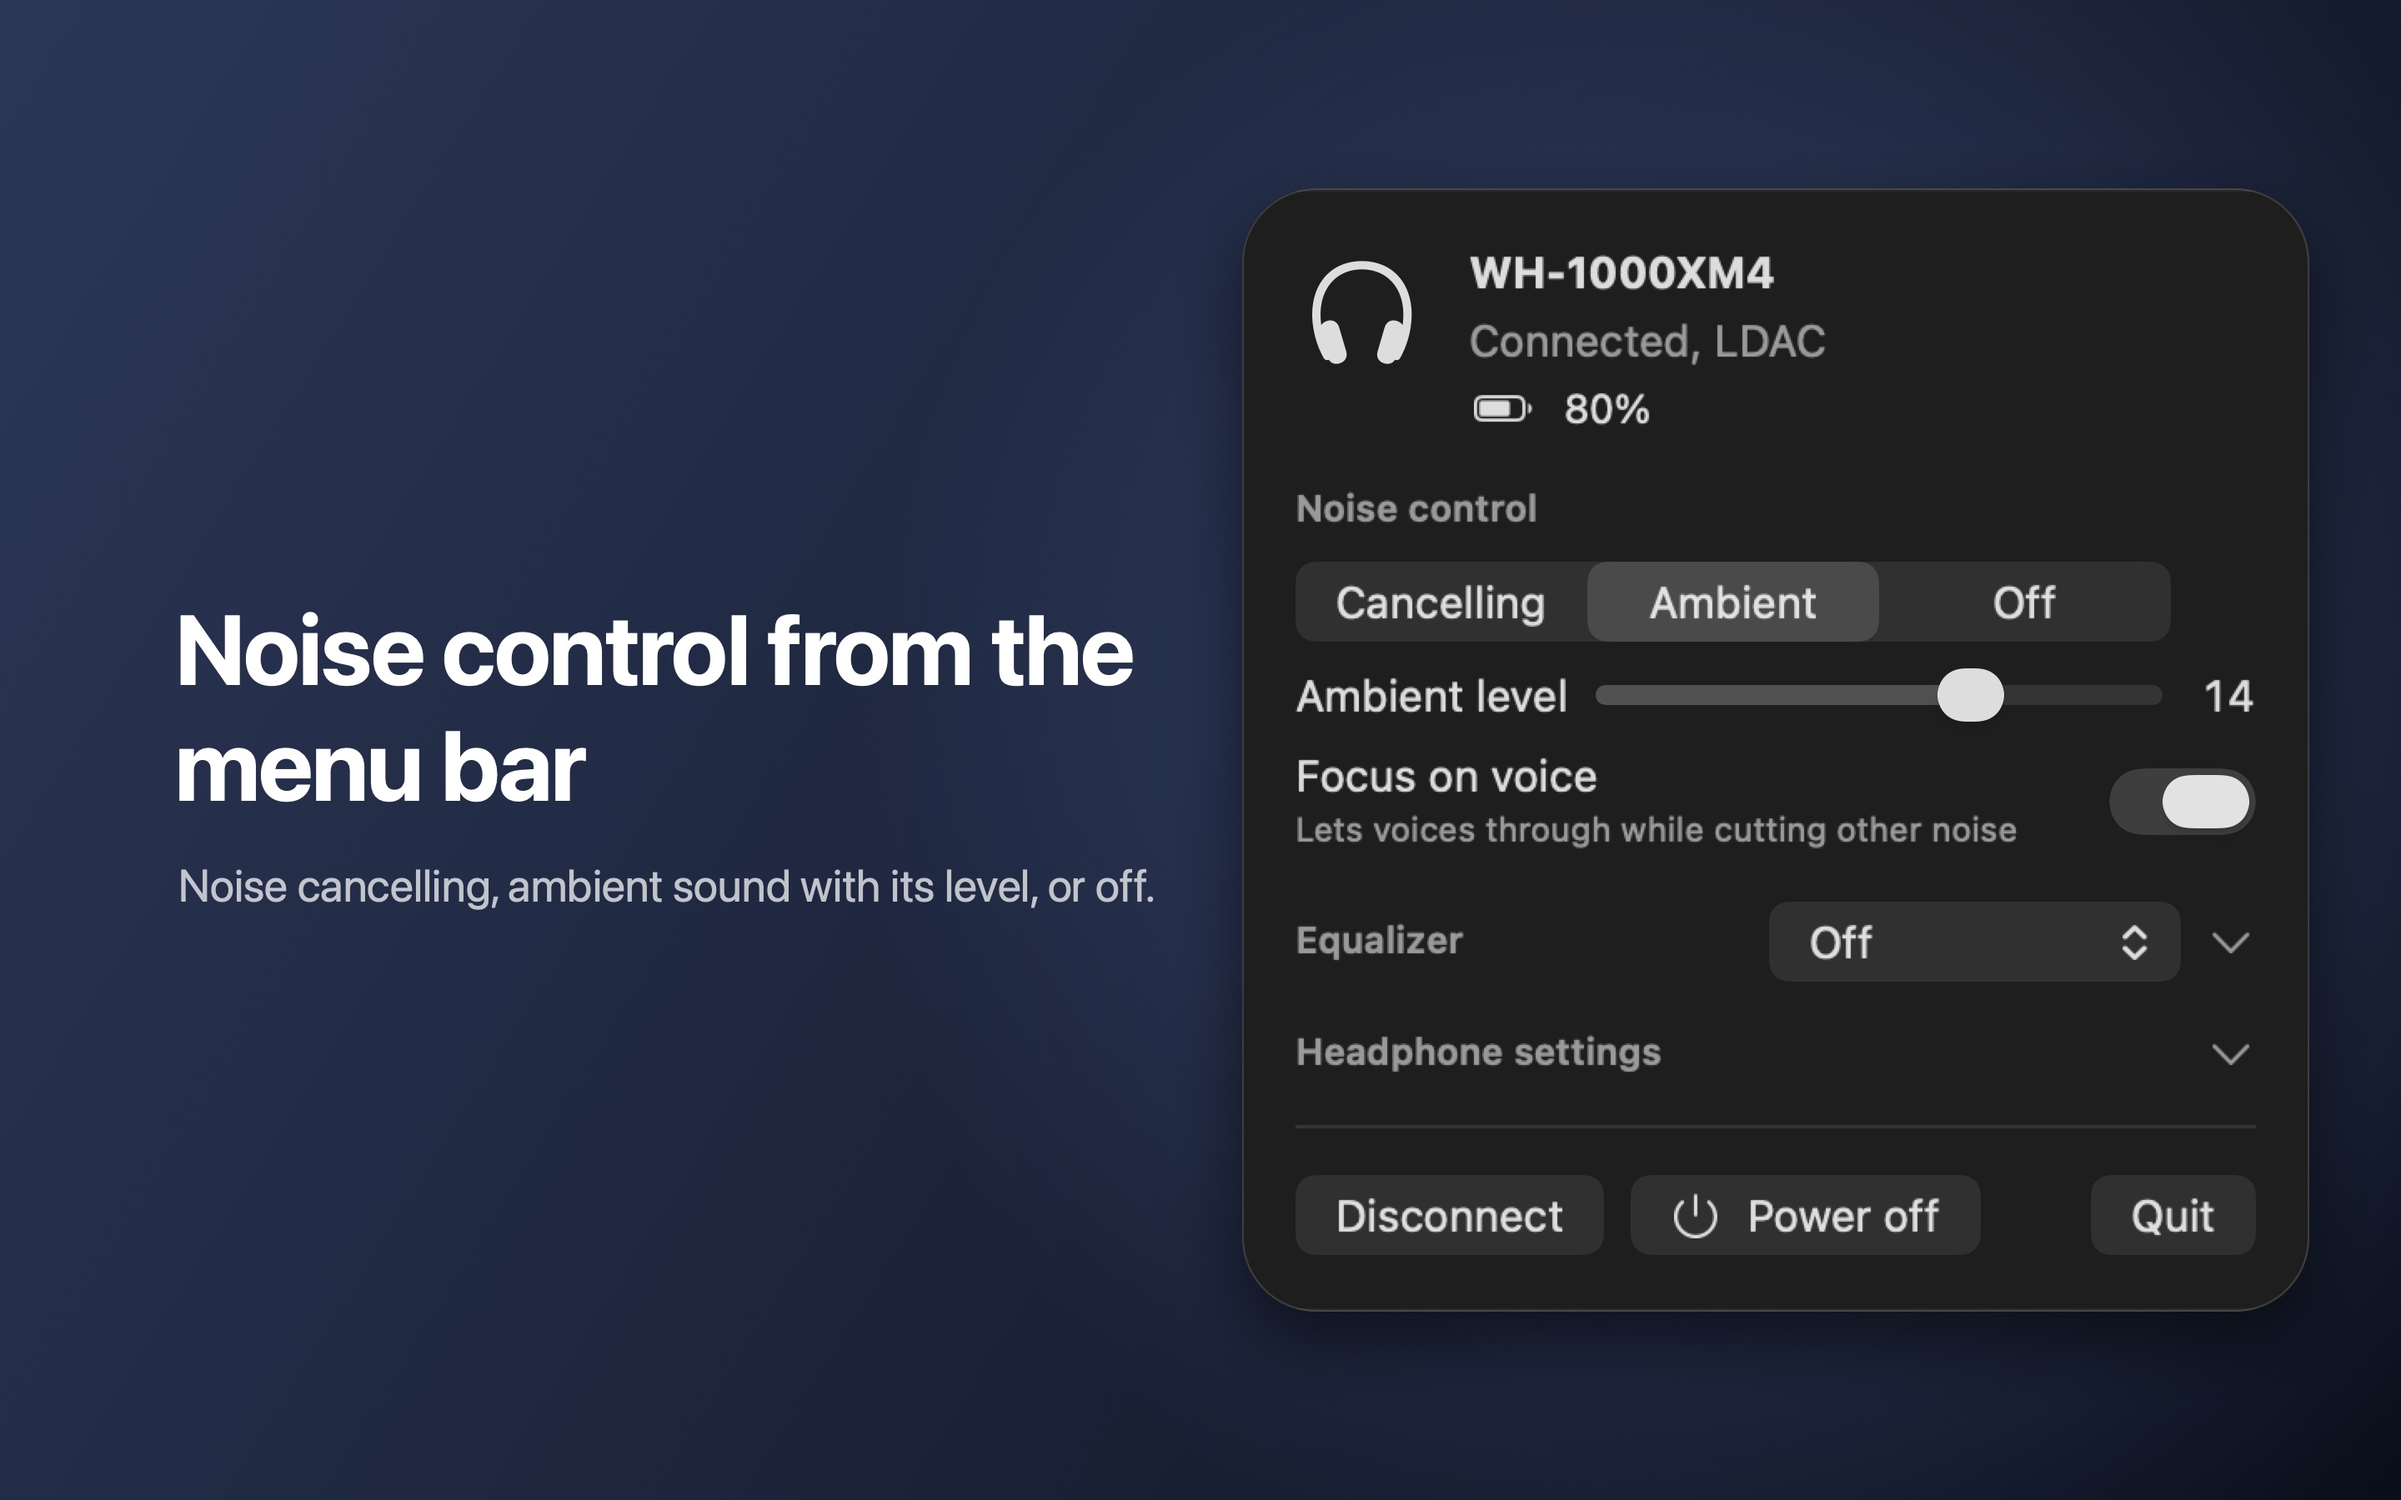
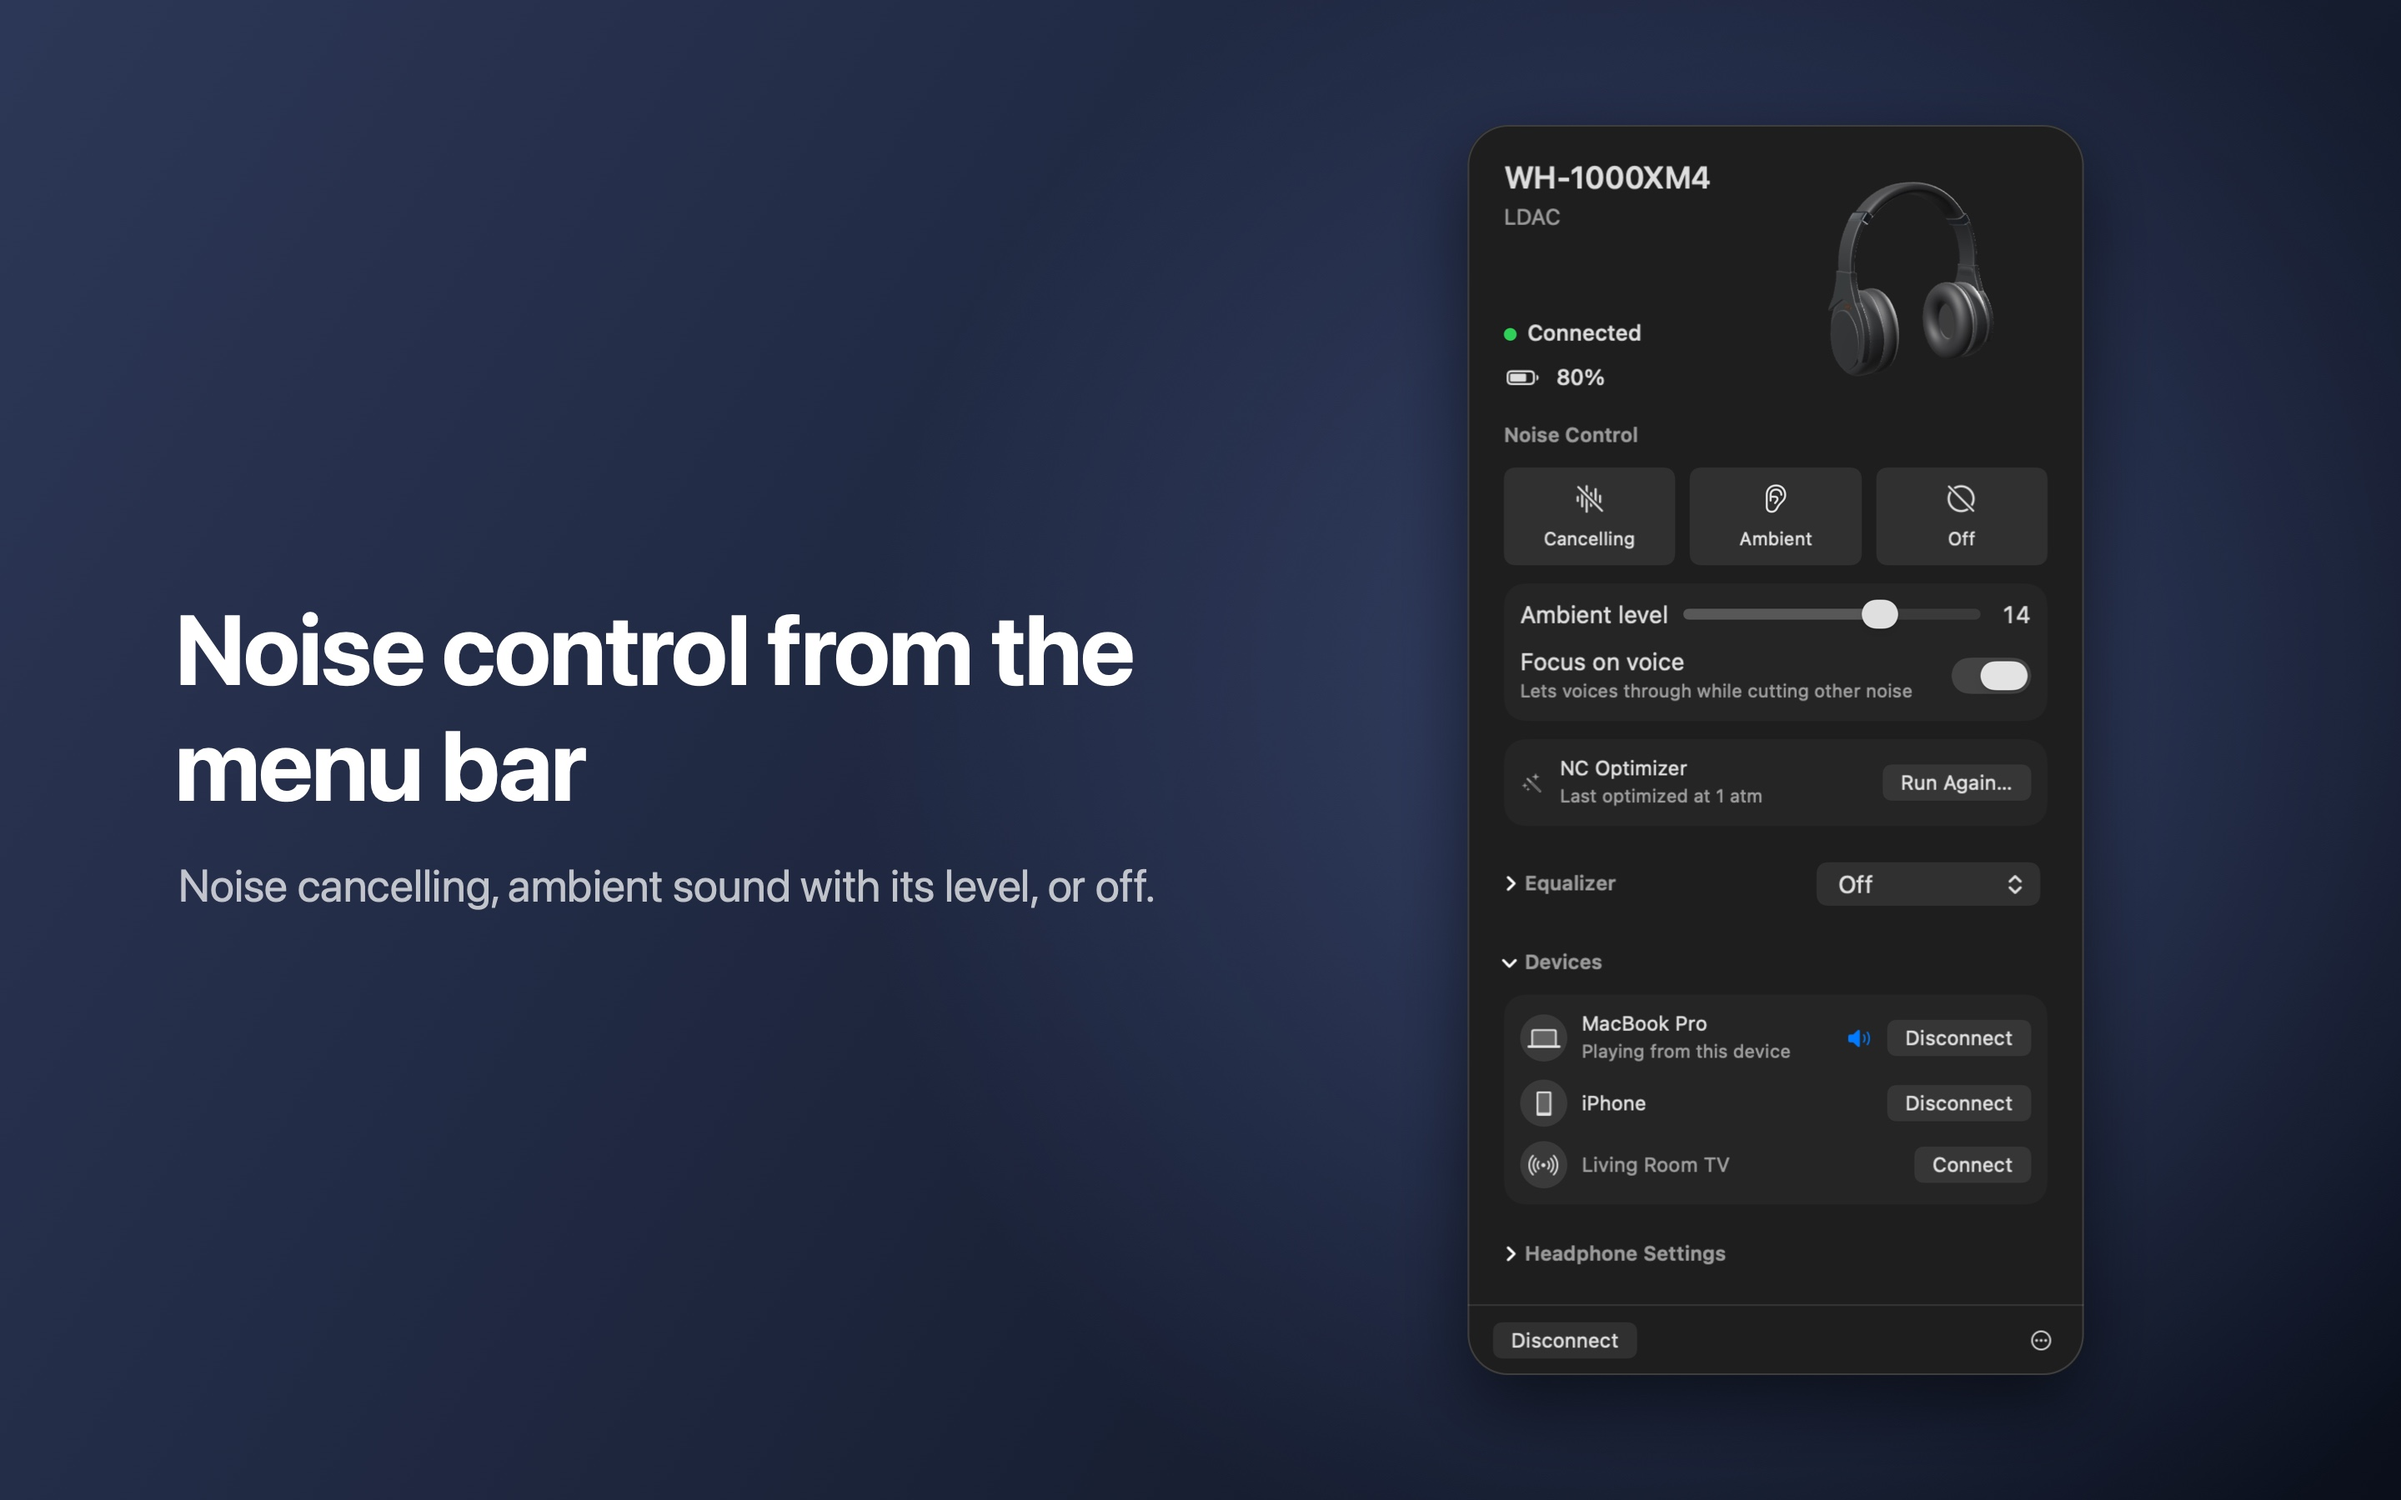
README for both platforms, Microsoft Store button, fresh Mac App Store screenshots
- README: covers Windows 11 and macOS. The download section gets the
  official "Get it from Microsoft" badge linked to the Store listing,
  keeps the GitHub installer as the other way, and says the Mac app is
  in Apple's review and how to build it meanwhile. The feature list
  marks what is Windows-only and Mac-only.
- Mac App Store screenshots remade from the current panel and card. The
  card is drawn on a solid surface off screen, where Liquid Glass cannot
  be drawn and left its text dark on the dark canvas.
- The App Store listing text lists the optimizer, the custom button,
  device switching, the shortcut and opening at login, and has a
  What's New for the next version.

Changed region(s): [[0.5, 0.0622, 0.9688, 0.9333], [0.8438, 0.8711, 0.875, 0.9022]]

diff --git a/macos/app/Card.swift b/macos/app/Card.swift
@@ -83,7 +83,7 @@ struct CardView: View {
         }
         .padding(EdgeInsets(top: 20, leading: 20, bottom: 18, trailing: 20))
         .frame(width: 320)
-        .modifier(CardSurface())
+        .modifier(CardSurface(offScreen: !live))
         // Room for the shadow, inside the window.
         .padding(18)
         .scaleEffect(shown ? 1 : 0.94, anchor: .topTrailing)
@@ -150,11 +150,18 @@ private extension View {
 }
 
 /// The card's ground: Liquid Glass where the system has it, as a notification has, and the
-/// frosted material with a shadow before that.
+/// frosted material with a shadow before that. Drawn off screen, where neither can be, it is the
+/// window's own colour, which is what the glass shows over a plain dark desktop.
 private struct CardSurface: ViewModifier {
+    let offScreen: Bool
+
     func body(content: Content) -> some View {
         let shape = RoundedRectangle(cornerRadius: 22, style: .continuous)
-        if #available(macOS 26.0, *) {
+        if offScreen {
+            content
+                .background(Color(nsColor: .windowBackgroundColor), in: shape)
+                .shadow(color: .black.opacity(0.25), radius: 14, y: 6)
+        } else if #available(macOS 26.0, *) {
             content.glassEffect(.regular, in: shape)
         } else {
             content

diff --git a/README.md b/README.md
@@ -1,7 +1,7 @@
 # Open Headphones Connect
 
-An unofficial, open-source companion for Sony headphones on Windows 11. Not made by or
-affiliated with Sony.
+An unofficial, open-source companion for Sony headphones on Windows 11 and macOS. Not made by
+or affiliated with Sony.
 
 [![Build](https://github.com/yaay/open-headphones-connect/actions/workflows/ci.yml/badge.svg)](https://github.com/yaay/open-headphones-connect/actions/workflows/ci.yml)
 [![Latest release](https://img.shields.io/github/v/release/yaay/open-headphones-connect)](https://github.com/yaay/open-headphones-connect/releases/latest)
@@ -15,23 +15,42 @@ affiliated with Sony.
 
 ## Download
 
-Get the installer from the [latest release](https://github.com/yaay/open-headphones-connect/releases/latest).
-Windows 11, 64-bit; no administrator rights needed.
+### Windows
 
-The installer is not code-signed, so Windows shows "Windows protected your PC" the first time:
-choose *More info*, then *Run anyway*. Pair the headphones in Windows first. The app then lives
-in the notification area: left-click its icon for the panel, right-click to quit.
+<a href="https://apps.microsoft.com/detail/9NXQ80TSQD95?mode=direct"><img src="https://get.microsoft.com/images/en-us%20dark.svg" alt="Get it from Microsoft" width="200"></a>
+
+Windows 11, 64-bit. The Microsoft Store version installs without warnings and keeps itself up
+to date.
+
+Or get the installer from the [latest release](https://github.com/yaay/open-headphones-connect/releases/latest);
+no administrator rights needed. It is not code-signed, so Windows shows "Windows protected your
+PC" the first time: choose *More info*, then *Run anyway*.
+
+Pair the headphones in Windows first. The app then lives in the notification area: left-click
+its icon for the panel, right-click to quit.
+
+### Mac
+
+Coming to the Mac App Store, where it is in Apple's review. Until then you can build it
+yourself: macOS 15 or later, with Rust and Xcode's command-line tools, run `macos/run.sh app`.
+[The Mac app's notes](macos/README.md) have the details.
+
+Pair the headphones in System Settings first. The app then lives in the menu bar: click its
+icon for the panel.
 
 ## What it does
 
 - **Connect card** with a 3D model of your headphones, battery level and noise mode whenever
   they connect
-- **Battery** in the tray icon, with a notification when it runs low
+- **Battery** in the tray icon or the menu bar, with a notification when it runs low (Windows)
 - **Noise control**: noise cancelling, wind noise reduction, ambient sound
-- **Playback**: volume, play / pause, skip
+- **Playback**: volume, play / pause, skip (Windows)
 - **Equalizer** and the headphones' own settings: DSEE, Speak-to-Chat, touch panel, connecting
   to two devices, voice guidance, automatic power-off
-- **One-click connect / disconnect**, and start with Windows
+- **NC Optimizer**, **the custom button** and **the devices** your headphones are connected to,
+  with switching between them (Mac)
+- **One-click connect / disconnect**, and starting at login; on the Mac, ⌥⌘A switches the
+  noise mode from anywhere
 
 ## Supported headphones
 
@@ -59,6 +78,7 @@ That is how headphones move up this table.
 - [Supported headphones and reporting](docs/headphones.md)
 - [Your own 3D model on the connect card](docs/custom-model.md)
 - [Building and how it works](docs/development.md)
+- [The Mac app: building, packaging and how it works](macos/README.md)
 - [Changelog](CHANGELOG.md)
 
 ## Credits

diff --git a/macos/store/listing.md b/macos/store/listing.md
@@ -2,7 +2,7 @@
 
 A draft of the text for App Store Connect, English (U.S.). Each heading below is the name of a
 field there, with its limit. It says only what the Mac app does today: no playback or volume
-controls, no low-battery warning and no starting at login, which the Windows listing has.
+controls and no low-battery warning, which the Windows listing has.
 
 ## Name (30)
 
@@ -25,9 +25,13 @@ When your headphones connect, a small card slides in with a 3D picture of them, 
 What you can do:
 • See the battery level at a glance, right in the menu bar
 • Switch between noise cancelling, ambient sound and off, with the ambient level and focus on voice
+• Run the NC Optimizer, which tunes noise cancelling to you and to the air pressure around you
 • Pick an equalizer preset or shape your own curve
+• See which devices the headphones are connected to, and switch which one plays
+• Choose what the custom button does
 • Connect, disconnect or power off the headphones with one click
 • Change headphone settings: Speak-to-Chat, touch panel, DSEE upscaling, voice guidance, automatic power-off
+• Switch the noise mode from anywhere with Option-Command-A, and open the app at login
 
 Headphones it works with:
 • WH-1000XM3: tested on the Mac
@@ -52,7 +56,11 @@ The description may say what the app works with; keywords are where it gets apps
 
 ## What's New in This Version
 
-First release on the Mac App Store.
+• NC Optimizer, the custom button, and the devices your headphones are connected to, with switching between them
+• Switch the noise mode from anywhere with Option-Command-A
+• Open at login
+• A redesigned panel, and a livelier card when your headphones connect
+• Recovers by itself when macOS restarts Bluetooth
 
 ## Support URL
 
@@ -65,9 +73,6 @@ https://github.com/yaay/open-headphones-connect
 ## Privacy Policy URL
 
 https://github.com/yaay/open-headphones-connect/blob/main/docs/privacy.md
-
-The page covers the Mac app once the change that adds it is on the `main` branch, which is
-where this link points.
 
 ## Copyright
 
